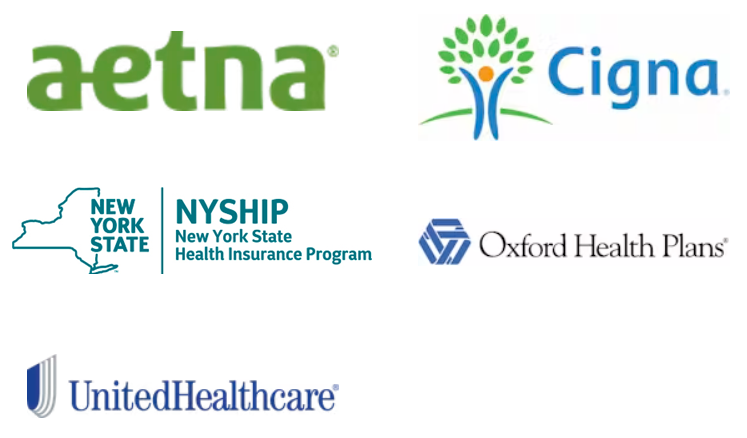
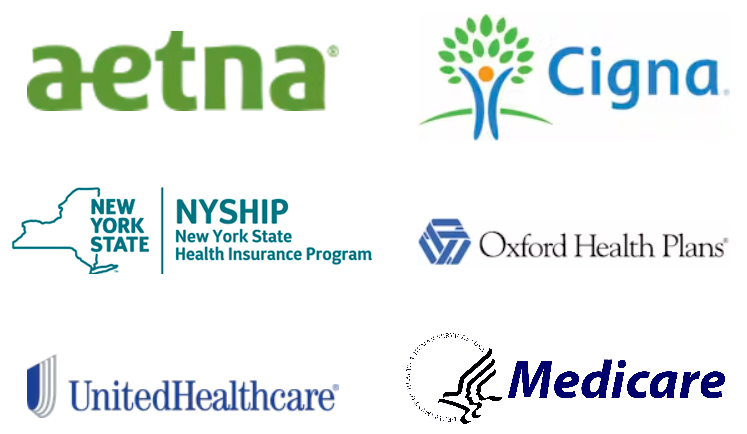
Edit 'About Us' page to add narrative and to update insurance page to include Medicare

diff --git a/about-us.html b/about-us.html
@@ -203,11 +203,19 @@
 
                         <div class="about-details"> 
 
-                            <p> At Jermaine Lee Physical Therapy, we are committed to delivering individualized, evidence-based care that meets the evolving needs of today’s healthcare environment. 
-                            </p>
-                            <p>Our experienced and fully accredited team uses advanced equipment and a structured, strategic approach to ensure high-quality, consistent outcomes.
-                            </p>
-                            <p>We prioritize clear communication, clinical oversight, and continuous improvement to support every client’s journey toward better physical health.</p>
+                            <p>At Jermaine Lee Physical Therapy, we don’t just deliver evidence-based care. We deliver care that is lived, tested, and inspired by real recovery.</p>
+
+                            <p>I’m a Doctor of Physical Therapy and a former Division I football player who trained and competed at the highest level. After my Pro Day with both NFL and CFL teams, I was drafted to play professionally in the Canadian Football League for the Edmonton Elks.</p>
+                                
+                            <p>My identity was rooted in athletic performance until July 2022, when a hiking accident changed everything. That day, an awkward landing led to a rare, life-altering injury: bilateral quadriceps tendon rupture.</p>
+                                
+                            <p>The accident came at the price of my love for fitness and outdoor activity, something that had always defined who I was. I never imagined I would have to learn to walk again. But I did. And that journey from complete immobility to recovery reshaped not just my body, but my purpose.</p>
+                                
+                            <p>I went from provider to patient, unable to walk, dependent on others, and forced to rebuild from scratch. That experience didn’t just deepen my knowledge of physical therapy—it deepened my empathy. It taught me how isolating and painful recovery can be, and how powerful the right care truly is.</p>
+                                
+                            <p>That experience now shapes everything we do at Jermaine Lee Physical Therapy, from our personalized care plans to our unwavering commitment to helping each patient feel seen, supported, and empowered.</p>
+                                
+                            <p>Today, my team and I combine expert clinical care, individualized treatment, and real-world experience to help others rise, just as I had to. Whether you are recovering from injury, surgery, or chronic pain, you are not alone. You are with someone who has lived it and come back stronger.</p>
 
                             <!--<ul>
                                 <li>Examine critically to ensure alignment </li>
